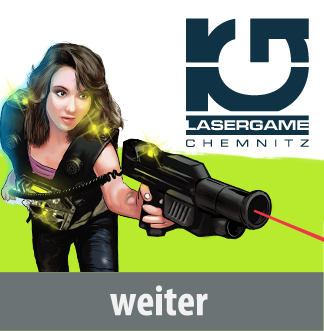
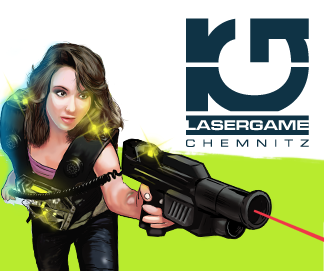
hover filter redirects

diff --git a/index.html b/index.html
@@ -72,19 +72,19 @@
             </div>
 
             <div class="card-deck pt-4 pb-4">
-                <div class="card bg-white">
+                <div class="card bg-white filtereffect">
                     <img class="card-img" src="/assets/images/startseite_bowling.png" alt="teaser bowling">
                     <a href="https://bowling-chemnitz.de" class="stretched-link"></a>
                 </div>
-                <div class="card bg-white">
+                <div class="card bg-white filtereffect">
                     <img class="card-img" src="/assets/images/startseite_escape.png" alt="teaser escape">
                     <a href="https://escaperoom-chemnitz.de" class="stretched-link"></a>
                 </div>
-                <div class="card bg-white">
+                <div class="card bg-white filtereffect">
                     <img class="card-img" src="/assets/images/startseite_lasertag.png" alt="teaser laser">
                     <a href="https://lasergame-chemnitz.de" class="stretched-link"></a>
                 </div>
-                <div class="card bg-white">
+                <div class="card bg-white filtereffect">
                     <img class="card-img" src="/assets/images/startseite_minigolf.png" alt="teaser minigolf">
                     <a href="https://minigolf-chemnitz.de" class="stretched-link"></a>
                 </div>

diff --git a/assets/css/custom.css b/assets/css/custom.css
@@ -15,6 +15,16 @@ img.filtered {
     filter: blur(0.2em);
 }
 
+.filtereffect img{    
+    filter: grayscale(100%);
+    transition: filter 0.8s ease;
+}
+
+.filtereffect:hover img{    
+    filter: grayscale(0%);
+    transition: filter 0.4s ease;
+}
+
 .vertical-center {
     min-height: 100%;
     min-height: 100vh;
